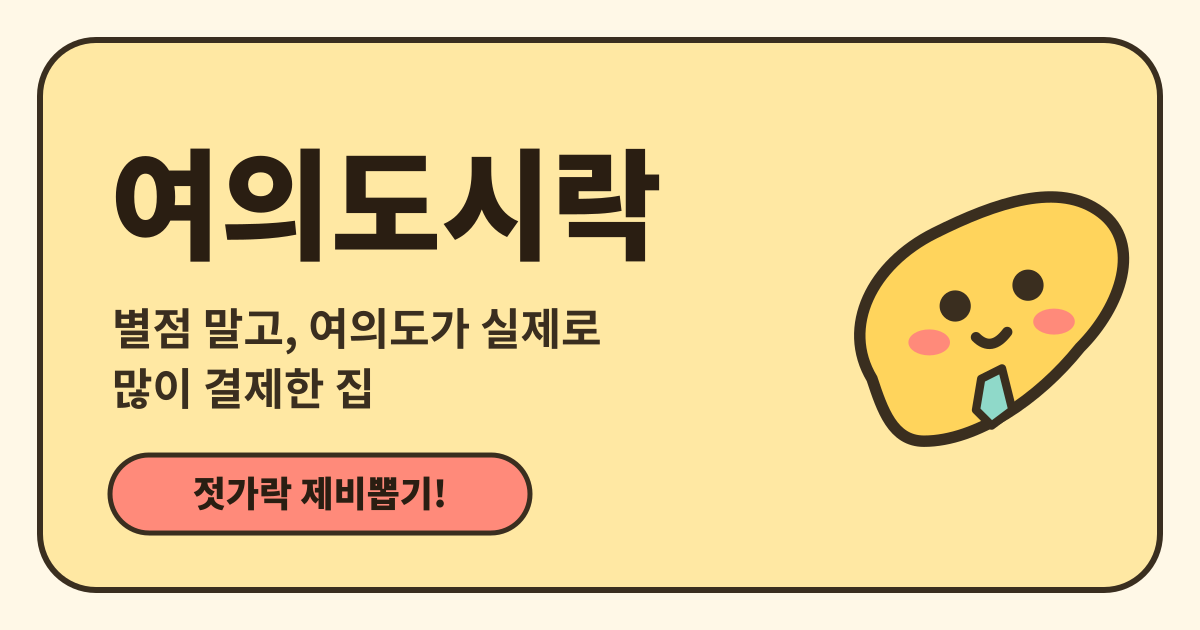
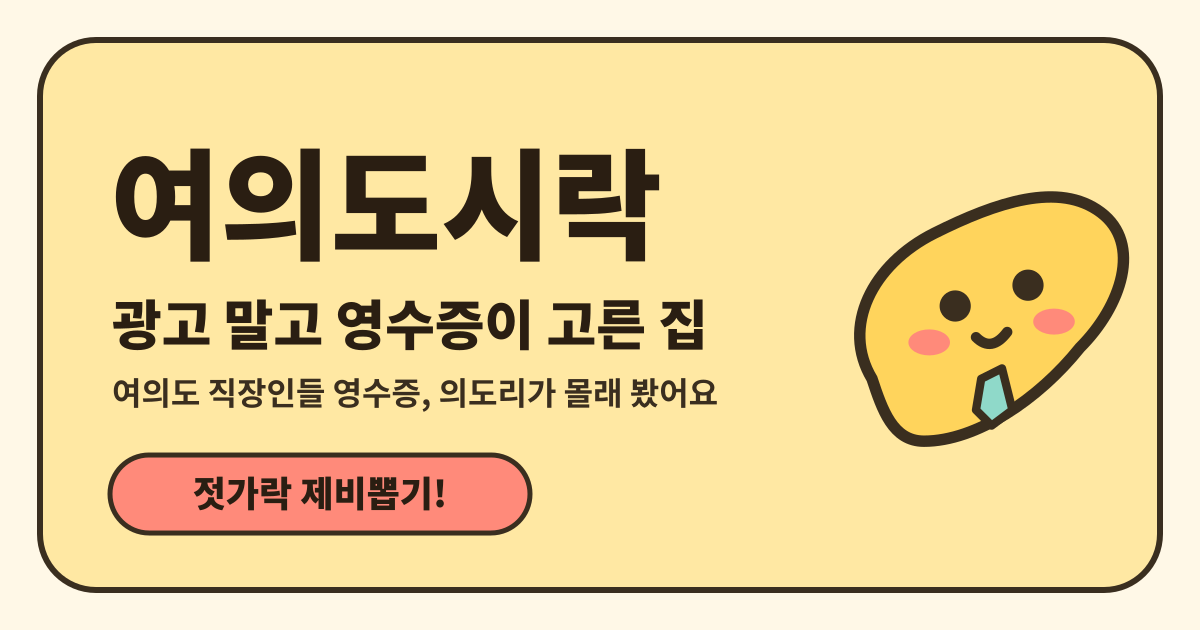
캐치프레이즈: 광고 말고 영수증이 고른 집
Claude-Session: https://claude.ai/code/session_01SHzLwsbR6UPz1UXm2nQPG9

Changed region(s): [[0.0925, 0.4524, 0.6167, 0.6635]]

diff --git a/index.html b/index.html
@@ -3,11 +3,11 @@
 <head>
 <meta charset="utf-8">
 <meta name="viewport" content="width=device-width, initial-scale=1, viewport-fit=cover">
-<title>여의도시락 · 별점 말고, 여의도가 실제로 많이 결제한 집</title>
-<meta name="description" content="여의도 점심·회식 맛집을 BC카드 결제 데이터(eat.pl 잇플) 매출 순위로 골라 드려요. 조건 넣고 젓가락 제비뽑기!">
+<title>여의도시락 · 광고 말고 영수증이 고른 집</title>
+<meta name="description" content="광고 말고 영수증이 고른 집. 여의도 직장인들 영수증(BC카드 잇플 결제 데이터)으로 고른 점심·회식 맛집, 조건 넣고 젓가락 제비뽑기!">
 <meta property="og:type" content="website">
-<meta property="og:title" content="여의도시락 🍱 오늘 점심 뭐 먹지?">
-<meta property="og:description" content="별점 말고, 여의도가 실제로 많이 결제한 집. 조건 넣고 젓가락 제비뽑기!">
+<meta property="og:title" content="여의도시락 🍱 광고 말고 영수증이 고른 집">
+<meta property="og:description" content="여의도 직장인들 영수증, 의도리가 몰래 봤어요. 고민되면 젓가락 제비뽑기!">
 <meta property="og:image" content="https://yeouidosirak.vercel.app/og.png">
 <meta name="theme-color" content="#FFF8E7">
 <link rel="icon" href="/favicon.svg" type="image/svg+xml">
@@ -32,7 +32,10 @@
       </button>
     </header>
 
-    <h1 class="headline">별점 말고, 여의도가 실제로<br>많이 결제한 집</h1>
+    <div class="hero">
+      <h1 class="headline">광고 말고<br>영수증이 고른 집</h1>
+      <p class="subline">여의도 직장인들 영수증, 의도리가 몰래 봤어요</p>
+    </div>
 
     <section class="filters" aria-label="검색 조건">
       <div class="f-label" id="lbl-region">어디서?</div>

diff --git a/style.css b/style.css
@@ -40,7 +40,9 @@ h2, .jua { font-weight: 700; }
 }
 .btn-pick-top svg { width: 18px; height: 18px; fill: none; stroke: var(--ink-deep); stroke-width: 2.4; stroke-linecap: round; }
 
-.headline { margin: 0; font-size: 22px; line-height: 1.3; color: var(--ink-deep); }
+.hero { display: flex; flex-direction: column; gap: 4px; }
+.headline { margin: 0; font-size: 28px; line-height: 1.25; color: var(--ink-deep); }
+.subline { margin: 0; font-size: 14px; color: var(--muted); }
 
 .filters { display: flex; flex-direction: column; gap: 8px; }
 .f-label { font-size: 13px; color: var(--muted); margin-top: 4px; }
